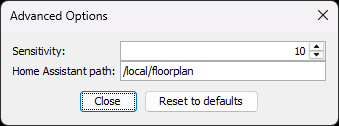
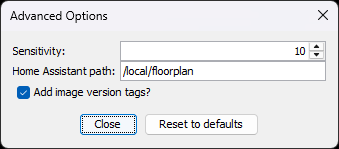
Allow removing version tags

diff --git a/src/com/shmuelzon/HomeAssistantFloorPlan/Controller.java b/src/com/shmuelzon/HomeAssistantFloorPlan/Controller.java
@@ -62,6 +62,7 @@ public class Controller {
     private static final String CONTROLLER_IMAGE_FORMAT = "imageFormat";
     private static final String CONTROLLER_RENDER_TIME = "renderTime";
     private static final String CONTROLLER_HOME_ASSISTANT_PATH = "homeAssistantPath";
+    private static final String CONTROLLER_ADD_IMAGE_VERSION_TAGS = "addImageVersionTags";
     private static final String CONTROLLER_OUTPUT_DIRECTORY_NAME = "outputDirectoryName";
     private static final String CONTROLLER_USE_EXISTING_RENDERS = "useExistingRenders";
 
@@ -86,6 +87,7 @@ public class Controller {
     private ImageFormat imageFormat;
     private List<Long> renderDateTimes;
     private String homeAssistantPath;
+    private boolean addImageVersionTags;
     private String outputDirectoryName;
     private String outputRendersDirectoryName;
     private String outputFloorplanDirectoryName;
@@ -115,6 +117,7 @@ public class Controller {
         imageFormat = ImageFormat.valueOf(settings.get(CONTROLLER_IMAGE_FORMAT, ImageFormat.PNG.name()));
         renderDateTimes = settings.getListLong(CONTROLLER_RENDER_TIME, Arrays.asList(camera.getTime()));
         homeAssistantPath = settings.get(CONTROLLER_HOME_ASSISTANT_PATH, "/local/floorplan");
+        addImageVersionTags = settings.getBoolean(CONTROLLER_ADD_IMAGE_VERSION_TAGS, true);
         outputDirectoryName = settings.get(CONTROLLER_OUTPUT_DIRECTORY_NAME);
         updateOutputSubDirectoryNames();
         useExistingRenders = settings.getBoolean(CONTROLLER_USE_EXISTING_RENDERS, true);
@@ -199,6 +202,15 @@ public class Controller {
         settings.set(CONTROLLER_HOME_ASSISTANT_PATH, homeAssistantPath);
     }
 
+    public boolean getAddImageVersionTags() {
+        return addImageVersionTags;
+    }
+
+    public void setAddImageVersionTags(boolean addImageVersionTags) {
+        this.addImageVersionTags = addImageVersionTags;
+        settings.setBoolean(CONTROLLER_ADD_IMAGE_VERSION_TAGS, addImageVersionTags);
+    }
+
     private String imagePath(String imageName) {
         return homeAssistantPath.replaceAll("/+$", "") + "/" + imageName;
     }
@@ -206,6 +218,7 @@ public class Controller {
     public void resetAdvancedOptionsToDefaults() {
         settings.set(CONTROLLER_SENSITIVTY, null);
         settings.set(CONTROLLER_HOME_ASSISTANT_PATH, null);
+        settings.set(CONTROLLER_ADD_IMAGE_VERSION_TAGS, null);
         loadDefaultSettings();
     }
 
@@ -335,8 +348,8 @@ public class Controller {
             generateTransparentImage(outputFloorplanDirectoryName + File.separator + TRANSPARENT_IMAGE_NAME + ".png");
             String yaml = String.format(
                 "type: picture-elements\n" +
-                "image: %s.png?version=%s\n" +
-                "elements:\n", imagePath(TRANSPARENT_IMAGE_NAME), renderHash(TRANSPARENT_IMAGE_NAME, true));
+                "image: %s.png%s\n" +
+                "elements:\n", imagePath(TRANSPARENT_IMAGE_NAME), imageVersionSuffix(TRANSPARENT_IMAGE_NAME, true));
             
             turnOffLightsFromOtherLevels();
             for (Scene scene : scenes) {
@@ -672,8 +685,14 @@ public class Controller {
         return tintedImage;
     }
 
-    private String renderHash(String imageName) throws IOException {
-        return renderHash(imageName, false);
+    private String imageVersionSuffix(String imageName) throws IOException {
+        return imageVersionSuffix(imageName, false);
+    }
+
+    private String imageVersionSuffix(String imageName, boolean forcePng) throws IOException {
+        if (!addImageVersionTags)
+            return "";
+        return "?version=" + renderHash(imageName, forcePng);
     }
 
     private String renderHash(String imageName, boolean forcePng) throws IOException {
@@ -720,14 +739,14 @@ public class Controller {
             "          action: none\n" +
             "        hold_action:\n" +
             "          action: none\n" +
-            "        image: %s.%s?version=%s\n" +
+            "        image: %s.%s%s\n" +
             "        filter: none\n" +
             "        style:\n" +
             "          left: 50%%\n" +
             "          top: 50%%\n" +
             "          width: 100%%\n%s",
             generateTitle(scene, onLights), conditions, imagePath(normalizePath(imageName)),
-            getFloorplanImageExtention(), renderHash(imageName),
+            getFloorplanImageExtention(), imageVersionSuffix(imageName),
             includeMixBlend && lightMixingMode == LightMixingMode.CSS ? "          mix-blend-mode: lighten\n" : "");
     }
 
@@ -755,8 +774,8 @@ public class Controller {
             "          type: image\n" +
             "          image: >-\n" +
             "              ${!isInColoredMode(COLOR_MODE) || (isInColoredMode(COLOR_MODE) && LIGHT_COLOR && LIGHT_COLOR[0] == 0 && LIGHT_COLOR[1] == 0) ?\n" +
-            "              '%s.png?version=%s' :\n" +
-            "              '%s.png?version=%s' }\n" +
+            "              '%s.png%s' :\n" +
+            "              '%s.png%s' }\n" +
             "        style:\n" +
             "          filter: '${ \"hue-rotate(\" + (isInColoredMode(COLOR_MODE) && LIGHT_COLOR ? LIGHT_COLOR[0] : 0) + \"deg) saturate(\" + (LIGHT_COLOR ? LIGHT_COLOR[1] / 100 : 1) + \")\"}'\n" +
             "          opacity: '${LIGHT_STATE === ''on'' ? (BRIGHTNESS / 255) : ''100''}'\n" +
@@ -767,7 +786,7 @@ public class Controller {
             "          width: 100%%\n",
             generateTitle(scene, Arrays.asList(light)),
             lightName, scene.getConditions(), lightName, lightName, lightName, lightName, lightName,
-            imagePath(normalizePath(imageName)), renderHash(imageName, true), imagePath(normalizePath(imageName) + ".red"), renderHash(imageName + ".red", true));
+            imagePath(normalizePath(imageName)), imageVersionSuffix(imageName, true), imagePath(normalizePath(imageName) + ".red"), imageVersionSuffix(imageName + ".red", true));
     }
 
     private String normalizePath(String fileName) {

diff --git a/src/com/shmuelzon/HomeAssistantFloorPlan/AdvancedOptionsPanel.java b/src/com/shmuelzon/HomeAssistantFloorPlan/AdvancedOptionsPanel.java
@@ -7,11 +7,14 @@ import java.awt.GridBagLayout;
 import java.awt.Insets;
 import java.awt.Window;
 import java.awt.event.ActionEvent;
+import java.awt.event.ItemEvent;
+import java.awt.event.ItemListener;
 import java.util.Locale;
 import java.util.ResourceBundle;
 
 import javax.swing.ActionMap;
 import javax.swing.JButton;
+import javax.swing.JCheckBox;
 import javax.swing.JDialog;
 import javax.swing.JLabel;
 import javax.swing.JOptionPane;
@@ -39,6 +42,7 @@ public class AdvancedOptionsPanel extends JPanel {
     private JSpinner sensitivitySpinner;
     private JLabel homeAssistantPathLabel;
     private JTextField homeAssistantPathTextField;
+    private JCheckBox addImageVersionTagsCheckbox;
     private JButton closeButton;
     private JButton resetToDefaultsButton;
 
@@ -94,6 +98,15 @@ public class AdvancedOptionsPanel extends JPanel {
             }
         });
 
+        addImageVersionTagsCheckbox = new JCheckBox();
+        addImageVersionTagsCheckbox.setText(resource.getString("HomeAssistantFloorPlan.Panel.addImageVersionTags.text"));
+        addImageVersionTagsCheckbox.setSelected(controller.getAddImageVersionTags());
+        addImageVersionTagsCheckbox.addItemListener(new ItemListener() {
+            public void itemStateChanged(ItemEvent ev) {
+                controller.setAddImageVersionTags(addImageVersionTagsCheckbox.isSelected());
+            }
+        });
+
         closeButton = new JButton(actionMap.get(ActionType.CLOSE));
         closeButton.setText(resource.getString("HomeAssistantFloorPlan.Panel.closeButton.text"));
         resetToDefaultsButton = new JButton(actionMap.get(ActionType.RESET_TO_DEFAULTS));
@@ -121,6 +134,11 @@ public class AdvancedOptionsPanel extends JPanel {
         homeAssistantPathLabel.setHorizontalAlignment(labelAlignment);
         add(homeAssistantPathTextField, new GridBagConstraints(
             1, currentGridYIndex, 1, 1, 0, 0, GridBagConstraints.LINE_START,
+            GridBagConstraints.HORIZONTAL, insets, 0, 0));
+        currentGridYIndex++;
+
+        add(addImageVersionTagsCheckbox, new GridBagConstraints(
+            0, currentGridYIndex, 2, 1, 0, 0, GridBagConstraints.LINE_START,
             GridBagConstraints.HORIZONTAL, insets, 0, 0));
     }
 

diff --git a/README.md b/README.md
@@ -157,8 +157,12 @@ advanced options, which hold low-level settings most users don't need to change.
   generated images are stored. It is used as the prefix of every image
   referenced by the generated YAML. The default is `/local/floorplan`, which
   matches copying the `floorplan` folder into Home Assistant's `www` folder
+* Add image version tags? - When enabled (the default), every image referenced
+  by the generated YAML gets a `?version=<hash>` query string, derived from the
+  image's content, so Home Assistant reloads an image whenever it changes.
+  Disable it to reference the images by their plain path
 
-The "Reset to defaults" button restores both settings to their original values.
+The "Reset to defaults" button restores all settings to their original values.
 
 ## Preparation
 
